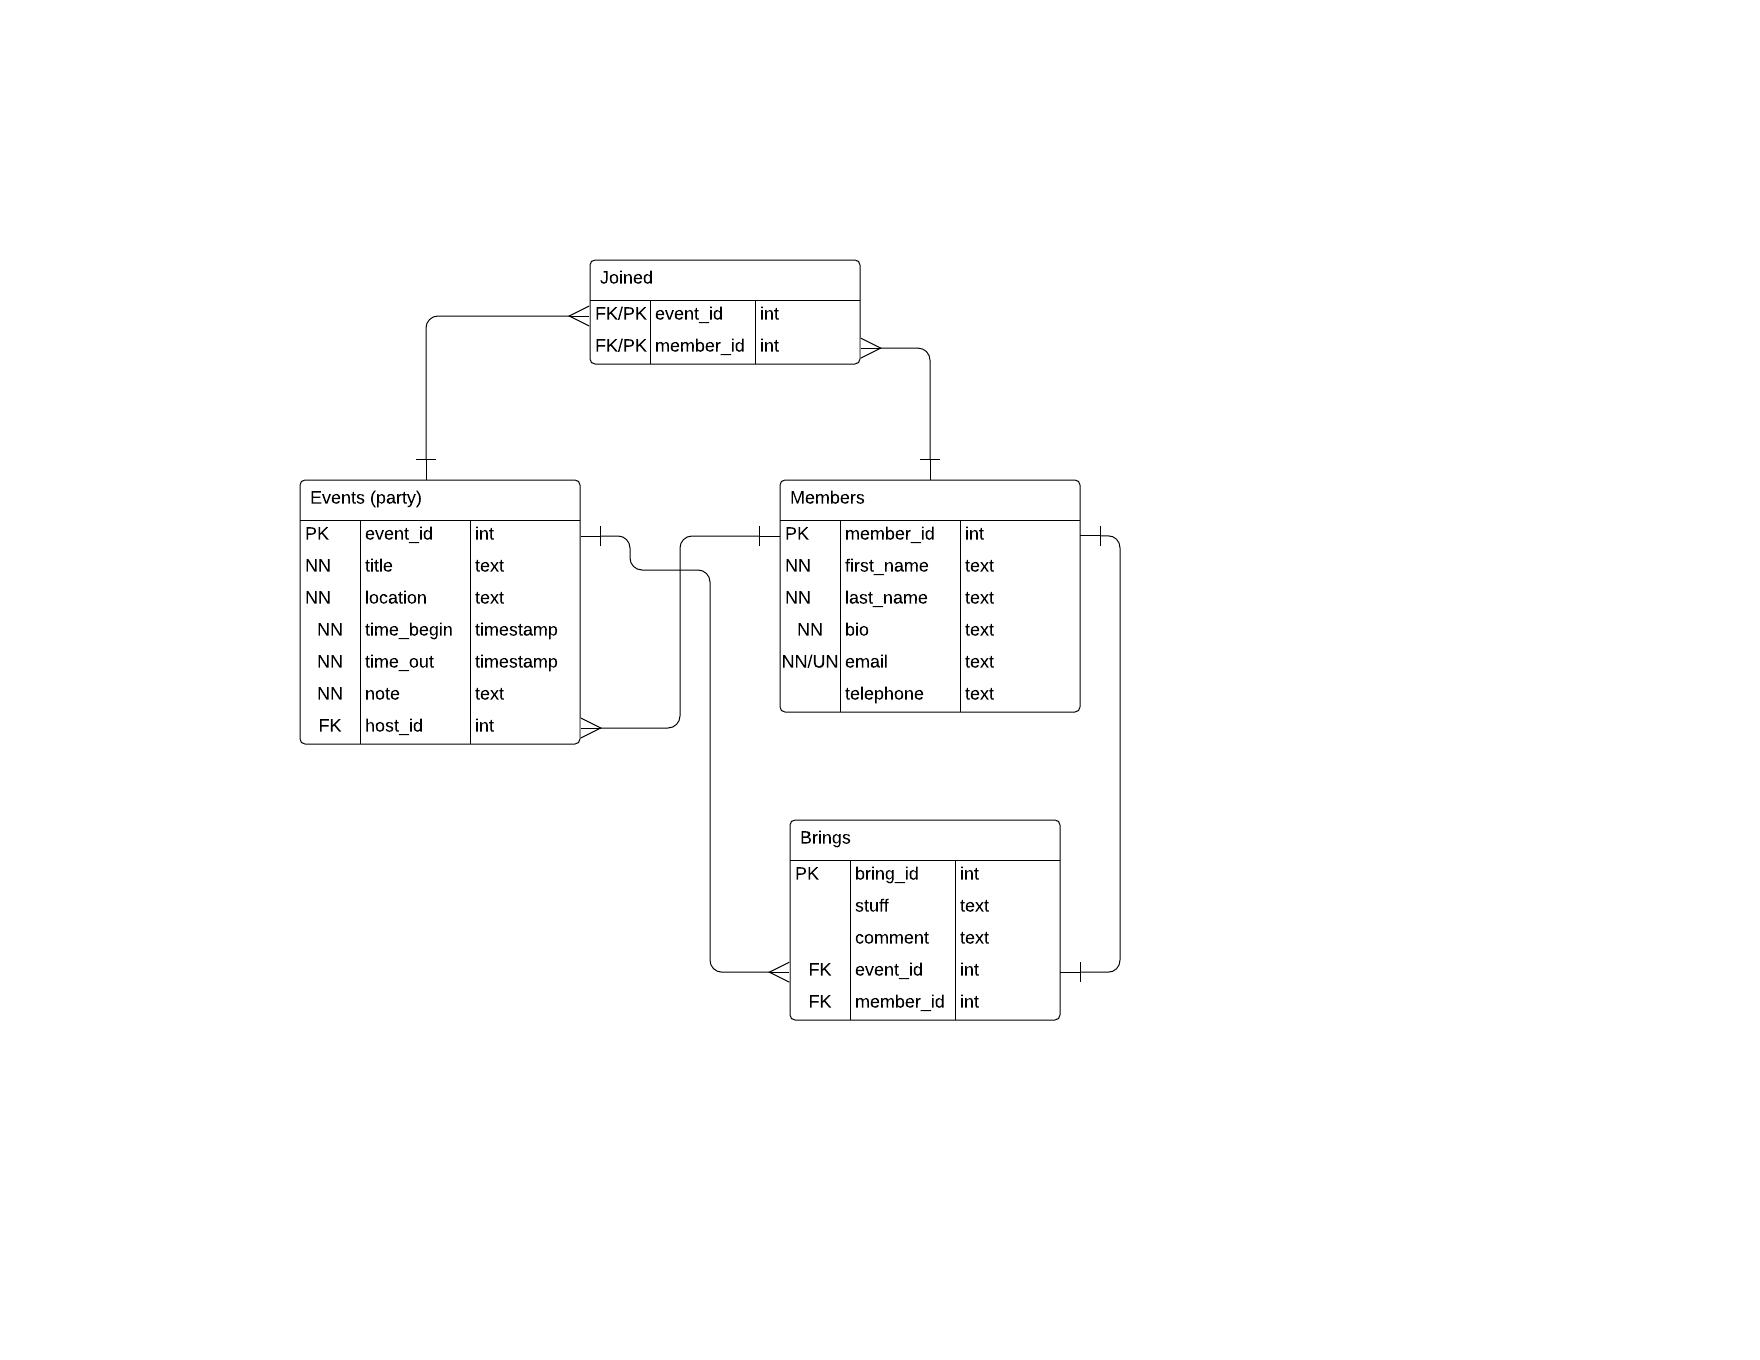
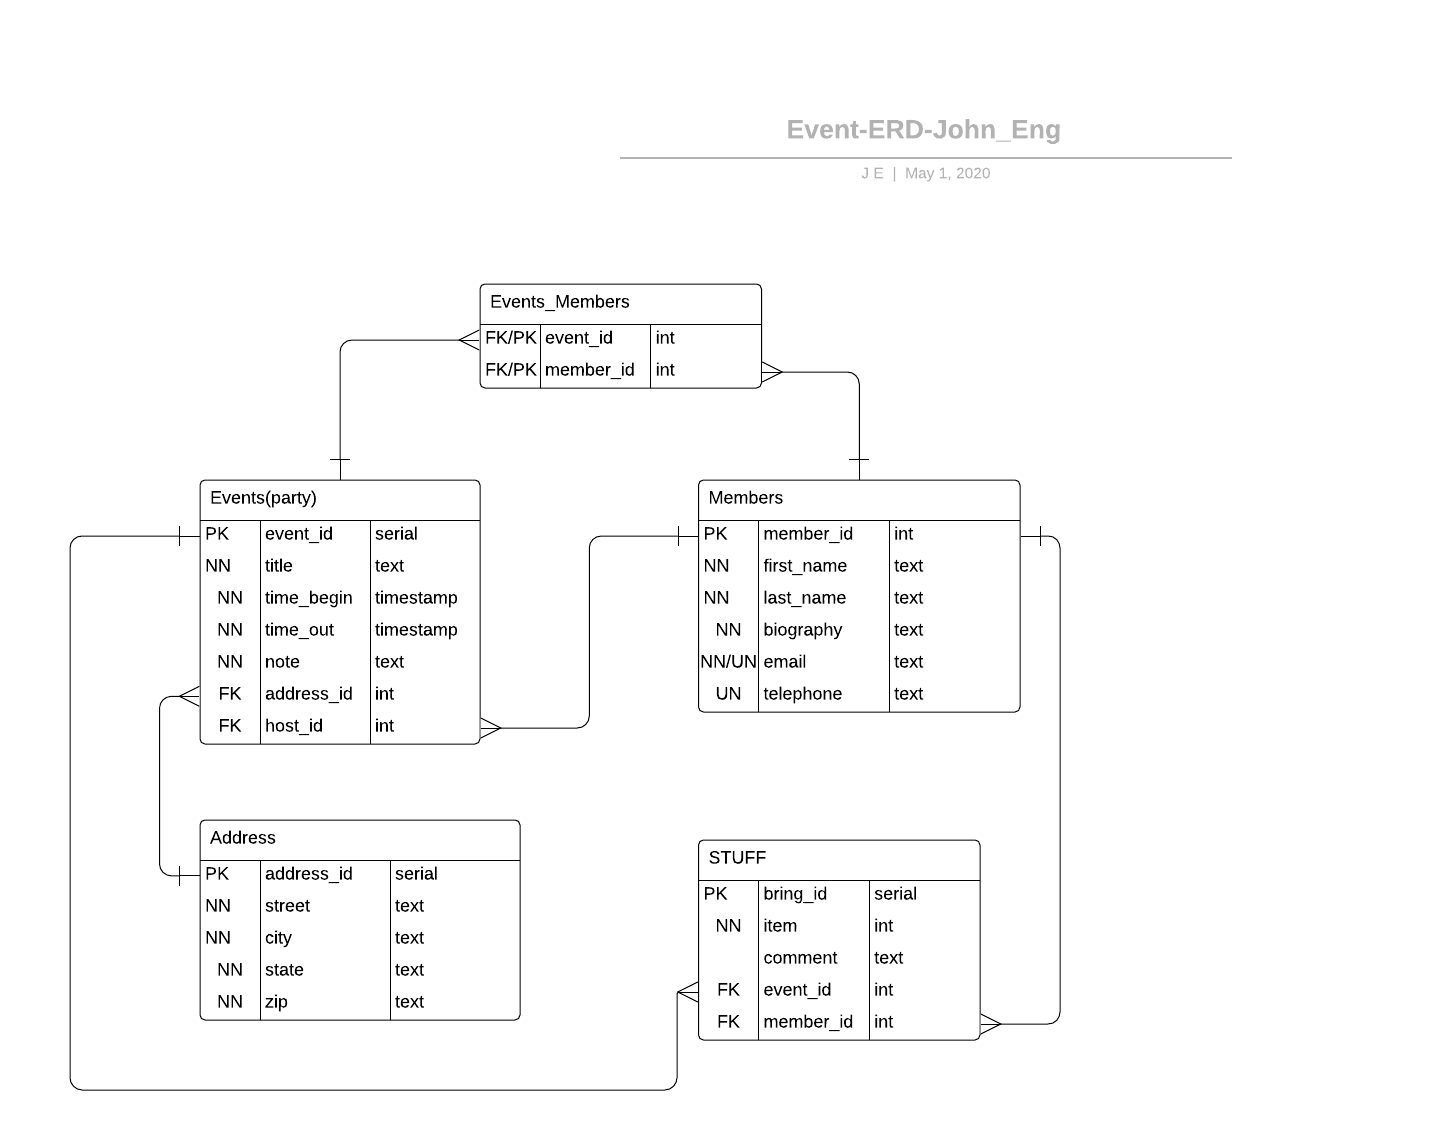
updated ERD, README, add RDS connection

diff --git a/src/repos/event-repo.ts b/src/repos/event-repo.ts
@@ -2,26 +2,28 @@ import { CrudRepository } from './crud-repo';
 import eventData from '../data/event_db';
 import { Event } from '../models/event';
 
+import { PoolClient } from 'pg';
+import { connectionPool } from '..';
+
 export class EventRepository implements CrudRepository<Event>{
 
-	// private static instance: eventRepository;
-	// private constructor(){}
-	// static getInstance(){
-	// 	return !EventRepository.instance ? EventRepository.instance = new EventRepository() : EventRepository.instance;
-	// } 
+	async getAll(): Promise<Event[]> {
 
-	getAll(): Promise<Event[]> {
-
-		return new Promise((resolve,reject)=> {
-
-			let events = [];
-
-			for(let event of eventData){
-				events.push({...event});
-			}
-
-			resolve(events);
-		});
+		let client:PoolClient;
+		try{
+			client = await connectionPool.connect();
+			console.log(client);
+			let sql = 'select * from app_events';
+			let rs = await client.query(sql);
+			console.log(rs);
+			return rs.rows
+		}catch(e){
+			console.log(e);
+			// throw new InternalServerError();
+		}finally{
+			client && client.release;
+		}
+		
 	}
 	getById(id: number): Promise<Event>{
 		return new Promise<Event>((resolve,rejects)=>{

diff --git a/src/index.ts b/src/index.ts
@@ -1,9 +1,25 @@
+import dotenv from 'dotenv';
 import express from 'express';
 import eventData from './data/event_db'
 import { EventRouter } from './routers/event-router';
 import { MemberRouter } from './routers/member-router';
 
+import { Pool } from 'pg';
+
 const app = express();
+
+// environment configuration
+dotenv.config();
+
+// database configuration
+export const connectionPool: Pool = new Pool({
+    host: process.env['DB_HOST'],
+    port: +process.env['DB_PORT'],
+    database: process.env['DB_NAME'],
+    user: process.env['DB_USERNAME'],
+    password: process.env['DB_PASSWORD'],
+    max: 5
+});
 
 app.use('/', express.json());
 

diff --git a/README.md b/README.md
@@ -1,34 +1,17 @@
 # Project 0
+Party Event API
 
-For Project 0, you will be building a RESTful API using TypeScript and Express. Associates are allowed to come up with their own API idea, but it must be approved by the trainer; suggested ideas are provided below.
+The api allows members to join the Party Event Group. They can see what events are active and can join them. 
+They also have the option to bring items to share in the event.
 
-Suggestions: 
-- resource management system API
-- learning management system API
-- any kind of social media API
-- mobile banking application API
+What is the benefit of this API?
+It provide info:
+about the events
+about the members
+of what items the members bring
+of shared items in the event
 
-## Features
-- [ ] RESTful API (At least Level 2 of the [Richardson Maturity Model](https://martinfowler.com/articles/richardsonMaturityModel.html))
-- [ ] Documentation (all methods have basic documentation)
-- [ ] Unit testing (>= 80% coverage)
-- [ ] SQL Data Persistance (at least 3 tables; all 3NF)
-- [ ] Logging (extra)
-- [ ] Authentication/Authorization (extra)
 
-## Tech Stack
-- [ ] TypeScript
-- [ ] PostGreSQL
-- [ ] node-postgre
-- [ ] Express
-- [ ] Jest
-- [ ] Git SCM (on GitHub)
+## ERD
 
-## Init Instructions
-- Select a project idea and submit it to trainer for approval. Be sure to include:
-  - The 3 data entities that you will be persisting
-  - Any external APIs that you will be using (not required if none are used)
-- Once approved, create a new repository within this organization (naming convention: `firstname_lastname_p0`)
 
-## Presentation
-- [ ] 5 minute live demonstration of endpoint consumption using Postman
